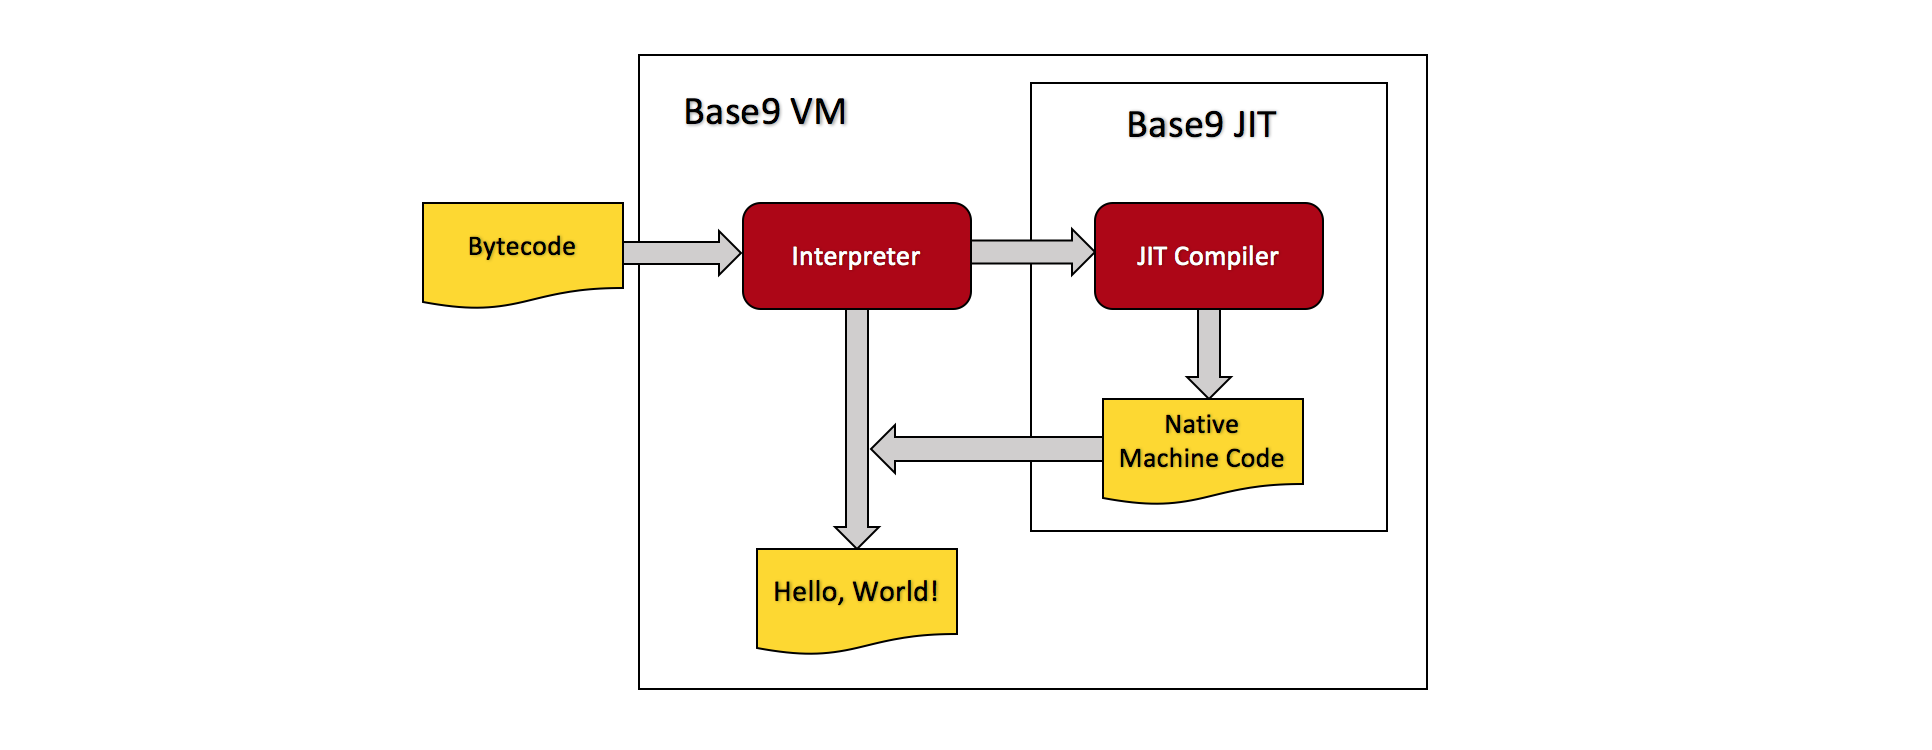
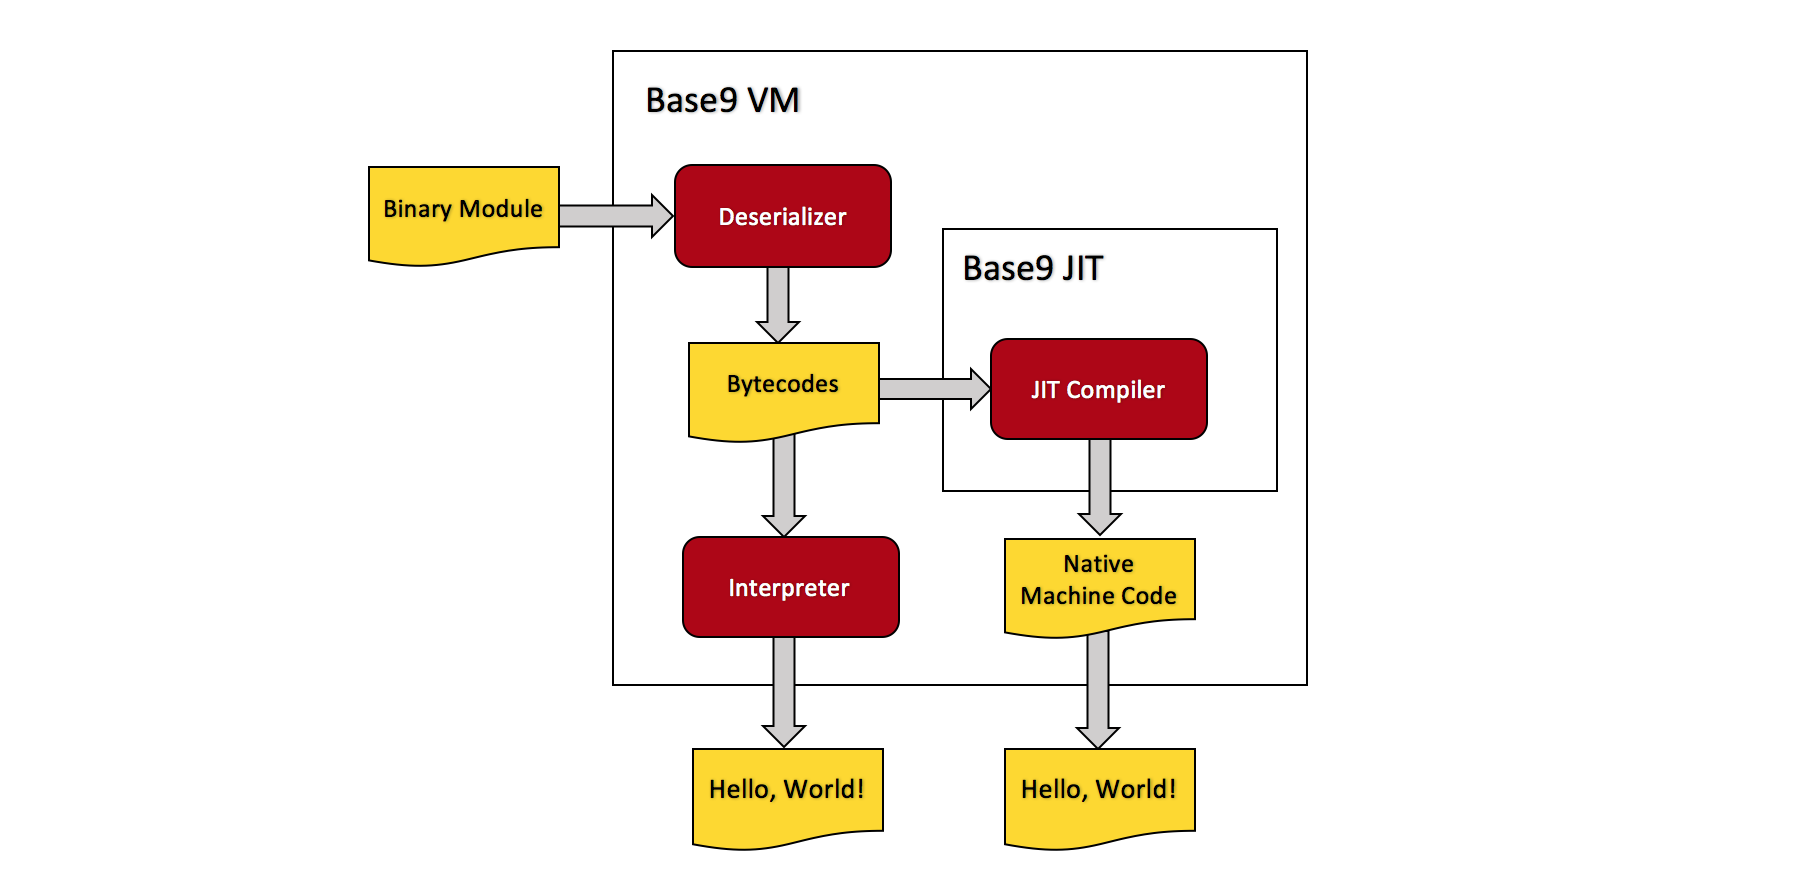
Mass edit / cleanup of tutorial, etc.
Full read through of BuildBase9.md
Update/redo vmDesign diagram
Clean up disassembler/deserializer page/info
Add instruction encoding info
Change file links to file path names
Add -options section
Add Binary Module and Deserializer definitions to dictionary
Other editing

diff --git a/docs/BuildBase9.md b/docs/BuildBase9.md
@@ -19,7 +19,10 @@ Welcome to our tutorial! If you're interested in building your own [language run
 
 ### 1.1 A Brief Overview of Base 9
 
-If you want to fiddle around with base9, check out our [set-up page](./SetupBase9.md) for set-up instructions.
+If you want to fiddle around with base9, check out our [set-up page] for set-up instructions. Be sure to read [about base9] before getting started with this tutorial. 
+
+[set-up page]: ./SetupBase9.md
+[about base9]: ./AboutBase9.md
 
 Base9 has several major components that we'll discuss throughout the course of this tutorial. We'll try to provide insight about why we made the design decisions that we did, and how we built up the pieces. We encourage you to remember that much of our implementation is made up of design decisions suited to our project. Along the way, you may wish to deviate from these decisions in order to best suit your own project.
 
@@ -28,7 +31,7 @@ Base9 has several major components that we'll discuss throughout the course of t
   <img src="./images/b9overview.png" width="100%"/>
 </figure>
 
-The Base9 Overview Diagram depicts the Ahead-of-Time compilation unit and the [Virtual Machine] unit. The Ahead-of-Time unit runs the b9porcelain source code through our frontend compiler. The frontend compiler outputs a binary module. The binary module is passed to the deserializer, which converts it to a C++ data structure that we've named "Module", and which will henceforth be refered to as our "in memory Module".
+The Base9 Overview Diagram depicts the Ahead-of-Time compilation unit and the [Virtual Machine] unit. The Ahead-of-Time unit runs the b9porcelain source code through our frontend compiler. The frontend compiler outputs a binary module. The binary module is passed to the deserializer, which converts it to a c++ data structure that we've named "Module", and which will henceforth be refered to as the "in memory Module".
 
 [Virtual Machine]: ./Dictionary.md#virtual-machine
 
@@ -42,7 +45,7 @@ We'll discuss each of the above components in detail in the upcoming sections.
 
 ### 1.2 B9porcelain, our Frontend Language
 
-b9porcelain is our front-end language. As mentioned, it's a subset of JavaScript. Let's have a look at some code: 
+b9porcelain is our front-end language. As mentioned, it's a subset of JavaScript. Let's have a look at some b9porcelain code:
  
  ```js
  function fib(a) {
@@ -68,11 +71,12 @@ Above is a classic program that we all know and love, Fibonacci. `b9main()` is u
 
 [primitive functions]: ./Dictionary.md#primitive-function
 
-b9porcelain source code is passed as input into our [frontend compiler], which uses [Esprima] to convert the program into an [Abstract Syntax Tree] (or AST). Our frontend compiler walks the AST and converts it into our portable binary format. The portable binary format is represented as our Binary Module.  
+b9porcelain source code is passed as input into our [frontend compiler], which uses [Esprima] to convert the program into an [Abstract Syntax Tree] (or AST). Our frontend compiler walks the AST and converts it into our portable binary format. The portable binary format is represented as our [Binary Module].
 
 [frontend compiler]: https://github.com/b9org/b9/blob/master/js_compiler/compile.js
 [Esprima]: http://esprima.org
 [Abstract Syntax Tree]: https://en.wikipedia.org/wiki/Abstract_syntax_tree
+[Binary Module]: ./Dictionary.md#binary-module
 
 For a detailed overview of how we've designed/built our front-end compiler and binary format, visit the link below:
 
@@ -81,15 +85,18 @@ For a detailed overview of how we've designed/built our front-end compiler and b
 
 ### 1.3 Building the Module
 
-The base9 [deserializer] is responsible for taking the binary module (which is output by the frontend compiler), and converting it into the in memory Module (which contains the base9 bytecodes) to be run by the VM. 
+The base9 [deserializer] at [b9/src/deserialize.cpp] is responsible for taking the binary module (which is output by the frontend compiler), and converting it into the in memory Module (which contains the base9 bytecodes) to be run by the interpreter or the JIT. 
 
-[deserializer]: (https://github.com/b9org/b9/blob/master/b9/src/deserialize.cpp)
+[deserializer]: ./Dictionary.md#deserializer
+[b9/src/deserialize.cpp]: https://github.com/b9org/b9/blob/master/b9/src/deserialize.cpp
 
-Click the link below to learn more about our base9 deserializer and disassembler:
+The deserializer is used in base9 in two different ways. Firstly, it is used by the VM as described above. Secondly, it is used by the disassembler at [b9/b9disassemble/b9disassemble.cpp]. The disassembler employs the base9 deserializer and is primarily used as a debugging tool. Click the link below to learn more about our base9 disassembler:
 
-[base9 deserializer and disassembler](./Disassembler.md)
+[b9/b9disassemble/b9disassemble.cpp]: https://github.com/b9org/b9/blob/master/b9disassemble/b9disassemble.cpp
 
-The in memory Module is represented in base9 as follows:
+[Base9 Disassembler](./Disassembler.md)
+
+We now know how the in memory Module is created from our b9porcelain source code. Lets take a look at how we represent the Module in base9:
 
 ```c++
 struct Module {
@@ -144,12 +151,24 @@ struct FunctionDef {
 
 The fields of the `FunctionDef` are the name of the function, the index of the function in the function vector, the number of arguments, the number of registers, and the `Instructions` vector (which contains the bytecodes). 
 
+The bytecodes are made up of 32-bit instructions which encode both the instruction bytecode and the immediate parameter. The instruction layout is as follows:
+
+```
+|0000-0000 0000-0000 0000-0000 0000-0000
+|---------| bytecode (8 bits)
+          |-----------------------------| parameter (24 bits)
+```
+
+Note that for many ByteCodes, the parameter is unused and left as zero.
+
 
 ### 1.4 Execution Model
 
-The base9 Virtual Machine is a relatively simple C++ class. It loads an in memory module Module which has been compiled from b9porcelain source code, and runs the program. The Module is created by converting b9porcelain into an executable sequence of bytecodes represented in our [binary format]. The binary format is then deserialized to create the in memory Module, which is passed to the VM. The VM then has two ways of handling the Module. It can either execute the Module's bytecodes line by line in the interpreter, or it can choose to JIT compile the bytecodes and run that version instead. 
+The base9 Virtual Machine is a relatively simple c++ class which can be found in [b9/include/b9/VirtualMachine.hpp]. It is instantiated in [b9run/main.cpp] in the `run` function, where it deserializes a binary module which has been compiled from b9porcelain source code, loads the resulting in memory Module, and runs the program. The Module is created by converting a sequence of bits which are represented as per our [binary format]. The binary format is then deserialized to create the in memory Module containing the bytecodes to be run. The VM then has two ways of handling the Module. It can either execute the Module's bytecodes line by line in the interpreter, or it can choose to JIT compile the bytecodes and run that version instead. 
 
-[binary format]: ./FrontendAndBinaryMod.md
+[b9/include/b9/VirtualMachine.hpp]: https://github.com/b9org/b9/blob/master/b9/include/b9/VirtualMachine.hpp
+[b9run/main.cpp]: https://github.com/b9org/b9/blob/master/b9run/main.cpp
+[binary format]: ./FrontendAndBinaryMod.md#binary-format
 
 <figure class="image">
   <figcaption>b9porcelain to Bytecodes</figcaption>
@@ -163,14 +182,15 @@ The above diagram shows a direct translation between b9porcelain source code and
   <img src="./images/vmDesign.png" width="100%"/>
 </figure>
 
-The above diagram shows our Virtual Machine Design. The VM takes the bytecodes from the Module, and runs them through either the Interpreter or the JIT compiler. The Interpreter will process the bytecodes directly, and the JIT compiler converts them to native machine code. We employ user flags to tell the VM to JIT compile an entire program and to interpret nothing. To run a fully JIT compiled program, navigate to the `build/` directory and run:
+The above diagram shows our Virtual Machine Design. The VM takes the binary module and converts it to bytecodes using the deserializer. The bytecodes are stored in the in memory Module. Then, the VM will employ either the Interpreter or the JIT to run the program. The Interpreter processes the bytecodes directly and one at a time. The JIT compiler converts the bytecodes to native machine code and returns a pointer to the start of the code. Once a program is JIT compiled, the bytecodes are no longer interpreted one at a time, but rather they are run in their JIT compiled version. Currently, we employ user flags to tell the VM to JIT compile an entire program and to interpret nothing. To run a fully JIT compiled program, navigate to the `build/` directory and run:
 
 `./b9run/b9run -jit ./test/<binary module>.b9mod`
 
+Eventually, we will add profiling to base9, which will allow the VM to record statistics about the program and to make decisions about which individual functions to JIT compile.
 
 ### 1.5 The Virtual Machine
 
-The base9 VM has been subject to many design decisions. Please note, as with many of our components, there are multiple ways to implement a language runtime. As discussed above, the base9 virtual machine takes a Module structure as input. Let's take a look at our [main function] to gain a better understanding of how this works. Our main function calls `run(runtime, cfg);`:
+The base9 VM has been subject to many design decisions. Please note, as with many of our components, there are multiple ways to implement a language runtime. As discussed above, the base9 virtual machine takes a Module structure as input. Let's take a look at our [main function] to gain a better understanding of how this works. Our main function calls `run(runtime, cfg);` which is as follows:
 
 [main function]: https://github.com/b9org/b9/blob/master/b9run/main.cpp
 
@@ -194,19 +214,45 @@ static void run(OMR::Om::ProcessRuntime& runtime, const RunConfig& cfg) {
 }
 ```
 
-One of your first considerations will be how the user interacts with your runtime. In base9, we compile b9porcelain into a binary module using the following command:
+Walking through the code, we can see the VM being instantiated using a ProcessRuntime from OMR which we will use if JIT compiling our program, and a RunConfig containing some basic information about the Module which we obtained from parsing the command line arguments when we launched the VM. Next we obtain our binary module and deserialize the data. The information from the binary module is stored in the in memory Module. The VM then loads the in memory Module. Next, it checks if the user has specified to JIT compile the program. If yes, the bytecodes are JIT compiled using the `generateCode` function. If no, the VM obtains the main function of the program and begins interpreting. 
+
+As you may have noticed, much of the information used in the `run` function was obtained via command line arguments provided by the user. It is therefore reasonable that one of your first major considerations will be how the user interacts with your runtime. In base9, we compile b9porcelain into a binary module using the following command:
 
 `node ./compile.js <in> <out>`
 
-To run our VM using the binary module, we do the following:
+Where `<in>` is the b9porcelain source program, and `<out>` is the name to give to our binary module. Once a binary module is generated, we can run the VM.
+
+To run the VM, we do the following:
 
 `b9run [<option>...] [--] <module> [<arg>...]`
 
-The `<module>` argument is the binary module, which we created using `compile.js`. If you take a look in [main.cpp], you'll notice our argument parsing function, which collects the `<module>` argument from the command line. If you choose to run your VM from the command line, you will need to do something similar. 
+The `[<option>...]` parameters can be found in [b9run/main.cpp] and are as follows:
 
-[main.cpp]: https://github.com/b9org/b9/blob/master/b9run/main.cpp
+```    
+Help Option:
+   -help          Prints usage and options
 
-Again, how we structure and handle our binary format was a personal design decision that may or may not work for you. We chose to read our binary file into our in memory Module, and to load it into the VM to run. Lets take a closer look at how the VM runs our Module. 
+Jit Options:
+   -jit:          Enable the jit
+   -directcall:   make direct jit to jit calls
+   -passparam:    Pass arguments in CPU registers
+   -lazyvmstate:  Only update the VM state as needed
+
+Run Options:
+   -function <f>: Run the function <f> (default: b9main)
+   -loop <n>:     Run the program <n> times (default: 1)
+   -inline <n>:   Set the jit's max inline depth (default: 0)
+   -debug:        Enable debug code
+   -verbose:      Run with verbose printing
+   -help:         Print this help message
+```
+
+
+Moving past the options, the `<module>` argument is the binary module to be deserialized, which we created using `compile.js`. It will have whichever name you provided as the `<out> argument. If you take a look in [main.cpp], you'll notice our argument parsing function, which collects the `<module>` argument from the command line. If you choose to run your VM from the command line, you will need to do something similar. 
+
+[b9run/main.cpp]: https://github.com/b9org/b9/blob/master/b9run/main.cpp
+
+Again, how we structure and handle our binary format was a personal design decision that may or may not work for your runtime. We chose to convert our binary file into the in memory Module, and to load it into the VM to run. Lets take a closer look at how the VM runs our Module. 
 
 ### 1.6 The Interpreter
 
@@ -218,12 +264,12 @@ Once the VM is instantiated and has loaded the Module, it calls the `VirtualMach
 
 ### 1.7 Base9 Summary
 
-To conclude this section, let's briefly walk over the components we've covered thus far. `b9porcelain` is our front-end language. It is compiled by our [compiler] using Esprima, and eventually converted into our binary module. The binary module is fed to our [deserializer], which converts it into the Module structure to be consumed by the VM. The VM is itself a C++ class, and can be found in [VirtualMachine.hpp]. Once instantiated, the VM loads and runs the Module through the [interpreter]. 
+To conclude this section, let's briefly walk over the components we've covered thus far. `b9porcelain` is our front-end language. It is compiled by our [frontend compiler] using Esprima, and converted into our binary module. The binary module is fed to our deserializer in [b9/src/deserialize.cpp], which converts it into the in memory Module to be consumed by the VM. The VM is itself a c++ class, and can be found in [b9/include/b9/VirtualMachine.hpp]. Once instantiated, the VM loads and runs the Module through the interpreter in [b9/src/ExecutionContext.cpp]. 
 
-[compiler]: https://github.com/b9org/b9/blob/master/js_compiler/compile.js
-[deserializer]: https://github.com/b9org/b9/blob/master/b9/src/deserialize.cpp
-[VirtualMachine.hpp]: https://github.com/b9org/b9/blob/master/b9/include/b9/VirtualMachine.hpp
-[interpreter]: https://github.com/b9org/b9/blob/master/b9/src/ExecutionContext.cpp
+[frontend compiler]: https://github.com/b9org/b9/blob/master/js_compiler/compile.js
+[b9/src/deserialize.cpp]: https://github.com/b9org/b9/blob/master/b9/src/deserialize.cpp
+[b9/include/b9/VirtualMachine.hpp]: https://github.com/b9org/b9/blob/master/b9/include/b9/VirtualMachine.hpp
+[b9/src/ExecutionContext.cpp]: https://github.com/b9org/b9/blob/master/b9/src/ExecutionContext.cpp
 
 
 
@@ -231,22 +277,21 @@ To conclude this section, let's briefly walk over the components we've covered t
 
 As we mentioned earlier, our JIT compiler is made possible by [OMR] and [JitBuilder]. We keep OMR in our [third_party] directory as a [submodule]. JitBuilder exists as part of OMR.
 
-[submodule]: ./Dictionary.md#submodule
-
-[OMR]: https://www.eclipse.org/omr/
+[OMR]: https://eclipse.org/omr/
 [JitBuilder]: https://developer.ibm.com/open/2016/07/19/jitbuilder-library-and-eclipse-omr-just-in-time-compilers-made-easy/
 [third_party]: https://github.com/b9org/b9/tree/master/third_party
+[submodule]: ./Dictionary.md#submodule
 
 With our OMR submodule, and with the correct `#include`'s in our base9 headers, using OMR and JitBuilder functionality is easy!  
 
 
 ### 2.1 The Base9 Compiler
 
-Let's start by taking a look at [b9/src/Compiler.hpp]. This is where we define our `Compiler` class. 
+Let's start by taking a look at [b9/src/Compiler.hpp], where we define our `Compiler` class. 
 
 [b9/src/Compiler.hpp]: https://github.com/b9org/b9/blob/master/b9/include/b9/compiler/Compiler.hpp
 
-The `Compiler` class constructor takes a `VirtualMachine` class (which we've already seen), and a `Config` struct. 
+The `Compiler` class constructor takes a `VirtualMachine` class (above in section 1.5), and a `Config` struct. It is called as follows: 
 
 `Compiler(VirtualMachine &virtualMachine, const Config &cfg);`
 
@@ -266,9 +311,9 @@ struct Config {
 };
 ```
 
-We use the `Config` class to configure the JIT with a number of settings. Note that `directCall`, `passParam`, and `lazyVmState` are all JIT optimizations. We'll discuss them later. The rest of the values are explained in the comments. 
+We use the `Config` class to configure the JIT with a number of settings. Note that `directCall`, `passParam`, and `lazyVmState` are all JIT optimizations that we'll discuss later. The rest of the values are explained in the comments. 
 
-Let's have a closer look at the `Compiler` class:
+Let's have a look at the `Compiler` class:
 
 ```
 class Compiler {
@@ -319,7 +364,7 @@ class GlobalTypes {
 
 We use the `TR::TypeDictionary` to define our `GlobalTypes`, as shown above. 
 
-Now let's have a look in [Base9/b9/src/Compiler.cpp] at the `Compiler::generateCode` function:
+Now let's have a look in [b9/src/Compiler.cpp] at the `Compiler::generateCode` function:
 
 [b9/src/Compiler.cpp]: https://github.com/b9org/b9/blob/master/b9/src/Compiler.cpp
 
@@ -357,9 +402,7 @@ The `rc` value is set to 0 and should remain as 0 through the `compileMethodBuil
 
 Our return value is simply a pointer to a uint8_t, which serves as the entry point into our Jitted function. 
 
-`generateCode` is called by the VM function `generateAllCode`. 
-
-Currently, we've only implemented the ability to JIT compile either everything or nothing. We run our program using the JIT with the following command: 
+`generateCode` is currently only called by the VM function `generateAllCode`,  because thus far we've only implemented the ability to JIT compile either everything or nothing. We run our program using the JIT with the following command: 
 
 `./b9run/b9run -jit ./test/<program>.b9mod`
 

diff --git a/docs/Disassembler.md b/docs/Disassembler.md
@@ -5,9 +5,9 @@ title: Base9 Disassembler
 
 ## The Base9 Disassembler
 
-The disassembler employs the base9 deserializer. It takes a binary module as input, and outputs the Module Data structure to be run by the VM. If, for example, we were to disassemble the binary module from our [binary module] example: 
+The disassembler employs the base9 deserializer. It takes a binary module as input, and outputs the in memory module to console in human readable form. If, for example, we were to disassemble the binary module from our [binary module example]: 
 
-[binary module]: ./FrontendAndBinaryMod.md
+[binary module example]: ./FrontendAndBinaryMod.md#binary-module-example
 
 ```
 62 39 6d 6f 64 75 6c 65  01 00 00 00 01 00 00 00  04 00 00 00 66 75 6e 63
@@ -15,7 +15,7 @@ The disassembler employs the base9 deserializer. It takes a binary module as inp
 00 00 00 02 00 00 00 00  02 00 00 00 01 00 00 00  04 00 00 00 63 6f 64 65
 ```
 
-... it would create a c++ in memory Module, and populate it with the following information:
+... it would create a c++ in memory Module, and output the following:
 
 ```
 (function "func" 2 2
@@ -33,7 +33,7 @@ The disassembler is a useful debugging tool. It can be run with the following co
 `./b9disassemble/b9disassemble <binary_module>`
 
 
-You can view the deserializer code in [Base9/b9/src/deserialize.cpp] and [Base9/b9/include/b9/deserialize.hpp]. 
+You can view the deserializer code in [b9/src/deserialize.cpp] and [b9/include/b9/deserialize.hpp]. 
 
 [b9/src/deserialize.cpp]: https://github.com/b9org/b9/blob/master/b9/src/deserialize.cpp
 [b9/include/b9/deserialize.hpp]: https://github.com/b9org/b9/blob/master/b9/include/b9/deserialize.hpp

diff --git a/docs/Dictionary.md b/docs/Dictionary.md
@@ -7,8 +7,16 @@ title: Base9 Dictionary
 
 Welcome to our Tutorial Dictionary! This is where you can find definitions for all sorts of terms and phrases that we use throughout the tutorial.
 
+### Binary Module
+A binary module is a representation of some data in binary form. In our case, it is a representation of the in memory module, which is a c++ data structure. It encodes meta data about the module and the bytecodes of each function. Visit our [Binary Module] page to learn more.  
+
+[Binary Module]: ./FrontendAndBinaryMod.md#binary-format
+
 ### Bytecode 
 A bytecode is a type of instruction that can be consumed by a virual machine. Bytecodes are independent of a specific processor's instruction set, allowing for cross-platform portability. Bytecodes are designed to be efficiently decoded and interpreted by a computer program, and are not necessarily human readable. 
+
+### Deserializer
+The base9 deserializer is a program which takes a sequence of bytes and converts it to an in memory module which can be read and run by the VM. 
 
 ### Interpreter 
 An interpreter translates bytecodes into executable native machine code. The [base9 interpreter] is essentially a while loop surrounding a giant switch statement. Each `case` in the switch statement corresponds to a specific bytecode, and executes a corresponding c++ function to implement the functionality of that particular bytecode.
